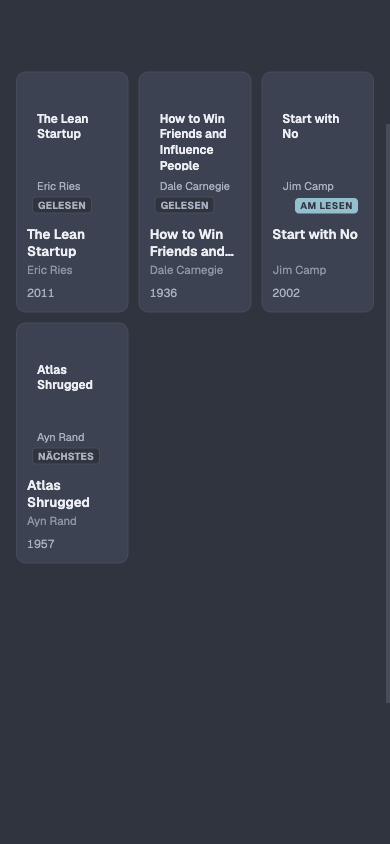
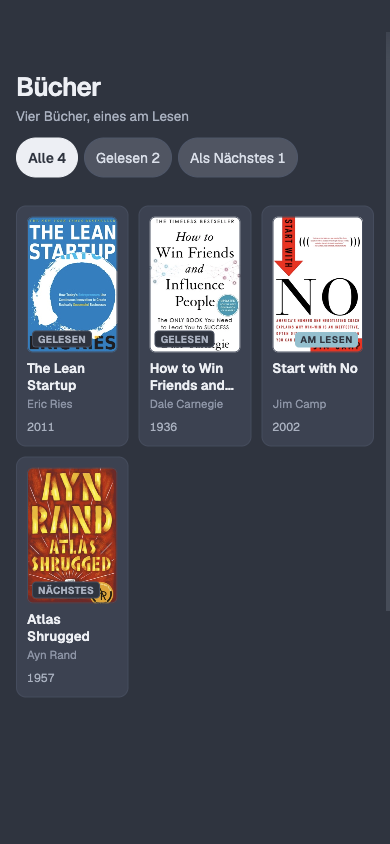
feat(site): show the books' covers in the screenshots
The sample shelf shows the four books' covers instead of typeset stand-ins:
the publishers' artwork from Apple Books, in site/covers/ at 450 px tall,
credited in the footer and the README. site-shots.mjs puts them in the
vault's hidden .covers folder and site.mjs gives the notes the app's own URL
for each, so the hero shots' file tree and the status bar's word count stay
as they were; a cover that doesn't load fails the run.

The books phone now starts at the page's title and filters, the dashboard's
shelf has cover thumbnails (its shot is 1,110 px tall to keep the timeline),
and the books phone's alt text says three across, as its caption does.

Closes #18

diff --git a/site/index.html b/site/index.html
@@ -258,7 +258,7 @@
             </div>
           </div>
           <figure class="window deep">
-            <img src="{{shots}}dashboard.png" width="1440" height="1060" alt="{{dashboards.alt}}" loading="lazy" />
+            <img src="{{shots}}dashboard.png" width="1440" height="1110" alt="{{dashboards.alt}}" loading="lazy" />
           </figure>
         </div>
       </section>

diff --git a/AGENTS.md b/AGENTS.md
@@ -14,7 +14,7 @@ Nord Lane is an Obsidian theme on the Nord palette. This file applies to every a
 | `screenshots/` | README images, taken from `demo/` |
 | `demo/` | A vault of made-up sample notes for checks and screenshots |
 | `tools/live/` | Drives a separate Obsidian over the DevTools protocol: screenshots, CSS inspection, phone emulation |
-| `site/` | The landing page at nordlane.silachev.com: the template `index.html`, `styles.css`, `favicon.svg`, the texts in `locales/{en,es,de,ru,sr}.json` (Serbian in Cyrillic) and the screenshots in `screenshots/<lang>/` |
+| `site/` | The landing page at nordlane.silachev.com: the template `index.html`, `styles.css`, `favicon.svg`, the texts in `locales/{en,es,de,ru,sr}.json` (Serbian in Cyrillic) and the screenshots in `screenshots/<lang>/`, plus the four book covers the screenshots show in `covers/` (not published on their own) |
 | `scripts/build-site.mjs` | Renders `site/` into `_site/` (gitignored), once per language; fails on a missing text, a leftover placeholder or a missing file |
 | `scripts/site-shots.mjs` | Takes `site/screenshots/<lang>/` from the real app: a throwaway vault per language, written from the `demo` texts in each locale, run through `tools/live/site.mjs` |
 | `.github/workflows/pages.yml` | Builds the landing page on pull requests and deploys it to GitHub Pages from `master` |
@@ -26,7 +26,7 @@ Nord Lane is an Obsidian theme on the Nord palette. This file applies to every a
 - **Build with every source change.** After editing `src/theme.src.css` or the fonts, run `python3 build.py` and commit `theme.css` and `manifest.json` in the same commit. CI fails when the committed build doesn't match the source.
 - **Check visual changes in the real app** before committing: `tools/live/launch.sh`, then `node tools/live/cdp.mjs run view.mjs "<note>" source 1600 1000 <name>`, in light and dark. A layout change also needs a narrow pane and the phone emulation (`phone.mjs`). Look at the screenshot; don't trust the CSS alone.
 - **Versions** follow semantic versioning: `MANIFEST["version"]` in `build.py` is the one source. A release gets a `CHANGELOG.md` entry and a `vX.Y.Z` tag.
-- **The landing page** speaks five languages: English, Spanish, German, Russian and Serbian. Every text, including the sample notes its screenshots show, lives in `site/locales/<lang>.json`; add each new text to all five files, or `node scripts/build-site.mjs` fails. Its screenshots are the real app in that language: after a visible theme change or a change to the `demo` texts, run `node scripts/site-shots.mjs` (macOS, Obsidian, about eight minutes) and commit `site/screenshots/`. The sample shelf is four book titles and their authors with typeset covers and made-up numbers; no cover art. Preview with `node scripts/build-site.mjs && python3 -m http.server -d _site`, at desktop width and at 390 px.
+- **The landing page** speaks five languages: English, Spanish, German, Russian and Serbian. Every text, including the sample notes its screenshots show, lives in `site/locales/<lang>.json`; add each new text to all five files, or `node scripts/build-site.mjs` fails. Its screenshots are the real app in that language: after a visible theme change or a change to the `demo` texts, run `node scripts/site-shots.mjs` (macOS, Obsidian, about eight minutes) and commit `site/screenshots/`. The sample shelf is four books, their titles, authors and covers (`site/covers/`: the publishers' artwork, from Apple Books, 450 px tall), with made-up numbers. Preview with `node scripts/build-site.mjs && python3 -m http.server -d _site`, at desktop width and at 390 px.
 
 ## Commits
 

diff --git a/README.md b/README.md
@@ -102,6 +102,7 @@ body {
 
 - Colours: [Nord](https://www.nordtheme.com) by Arctic Ice Studio and Sven Greb (MIT).
 - Fonts: [Geist and Geist Mono](https://github.com/vercel/geist-font) by the Geist Project Authors, under the SIL Open Font License 1.1 ([`src/fonts/OFL.txt`](src/fonts/OFL.txt)).
+- Book covers: the four in [`site/covers/`](site/covers), shown in the website's screenshots, belong to their publishers and aren't covered by this repo's license.
 
 ## License
 
